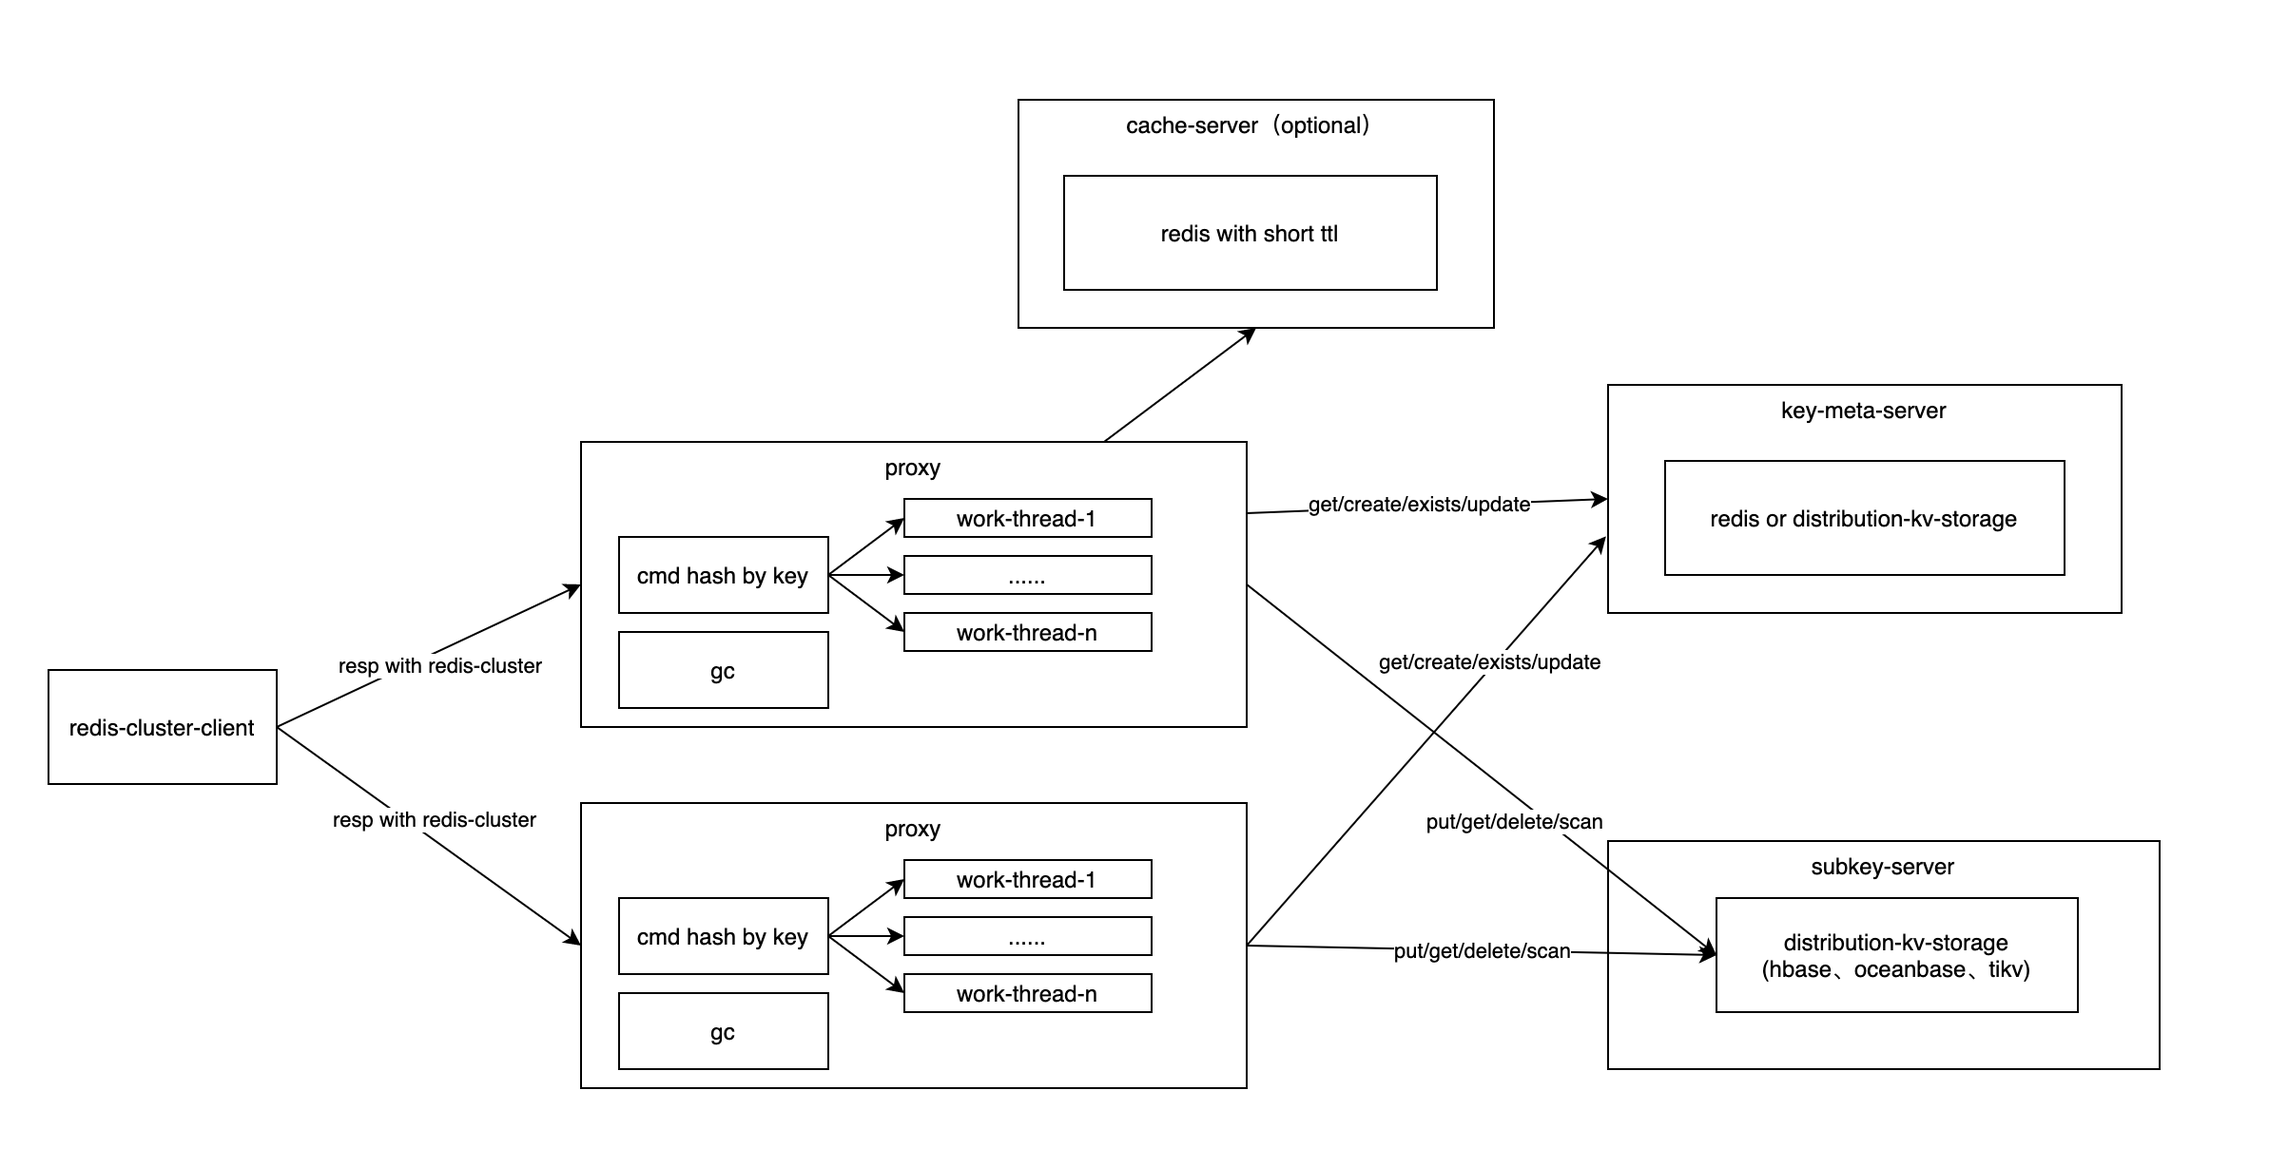
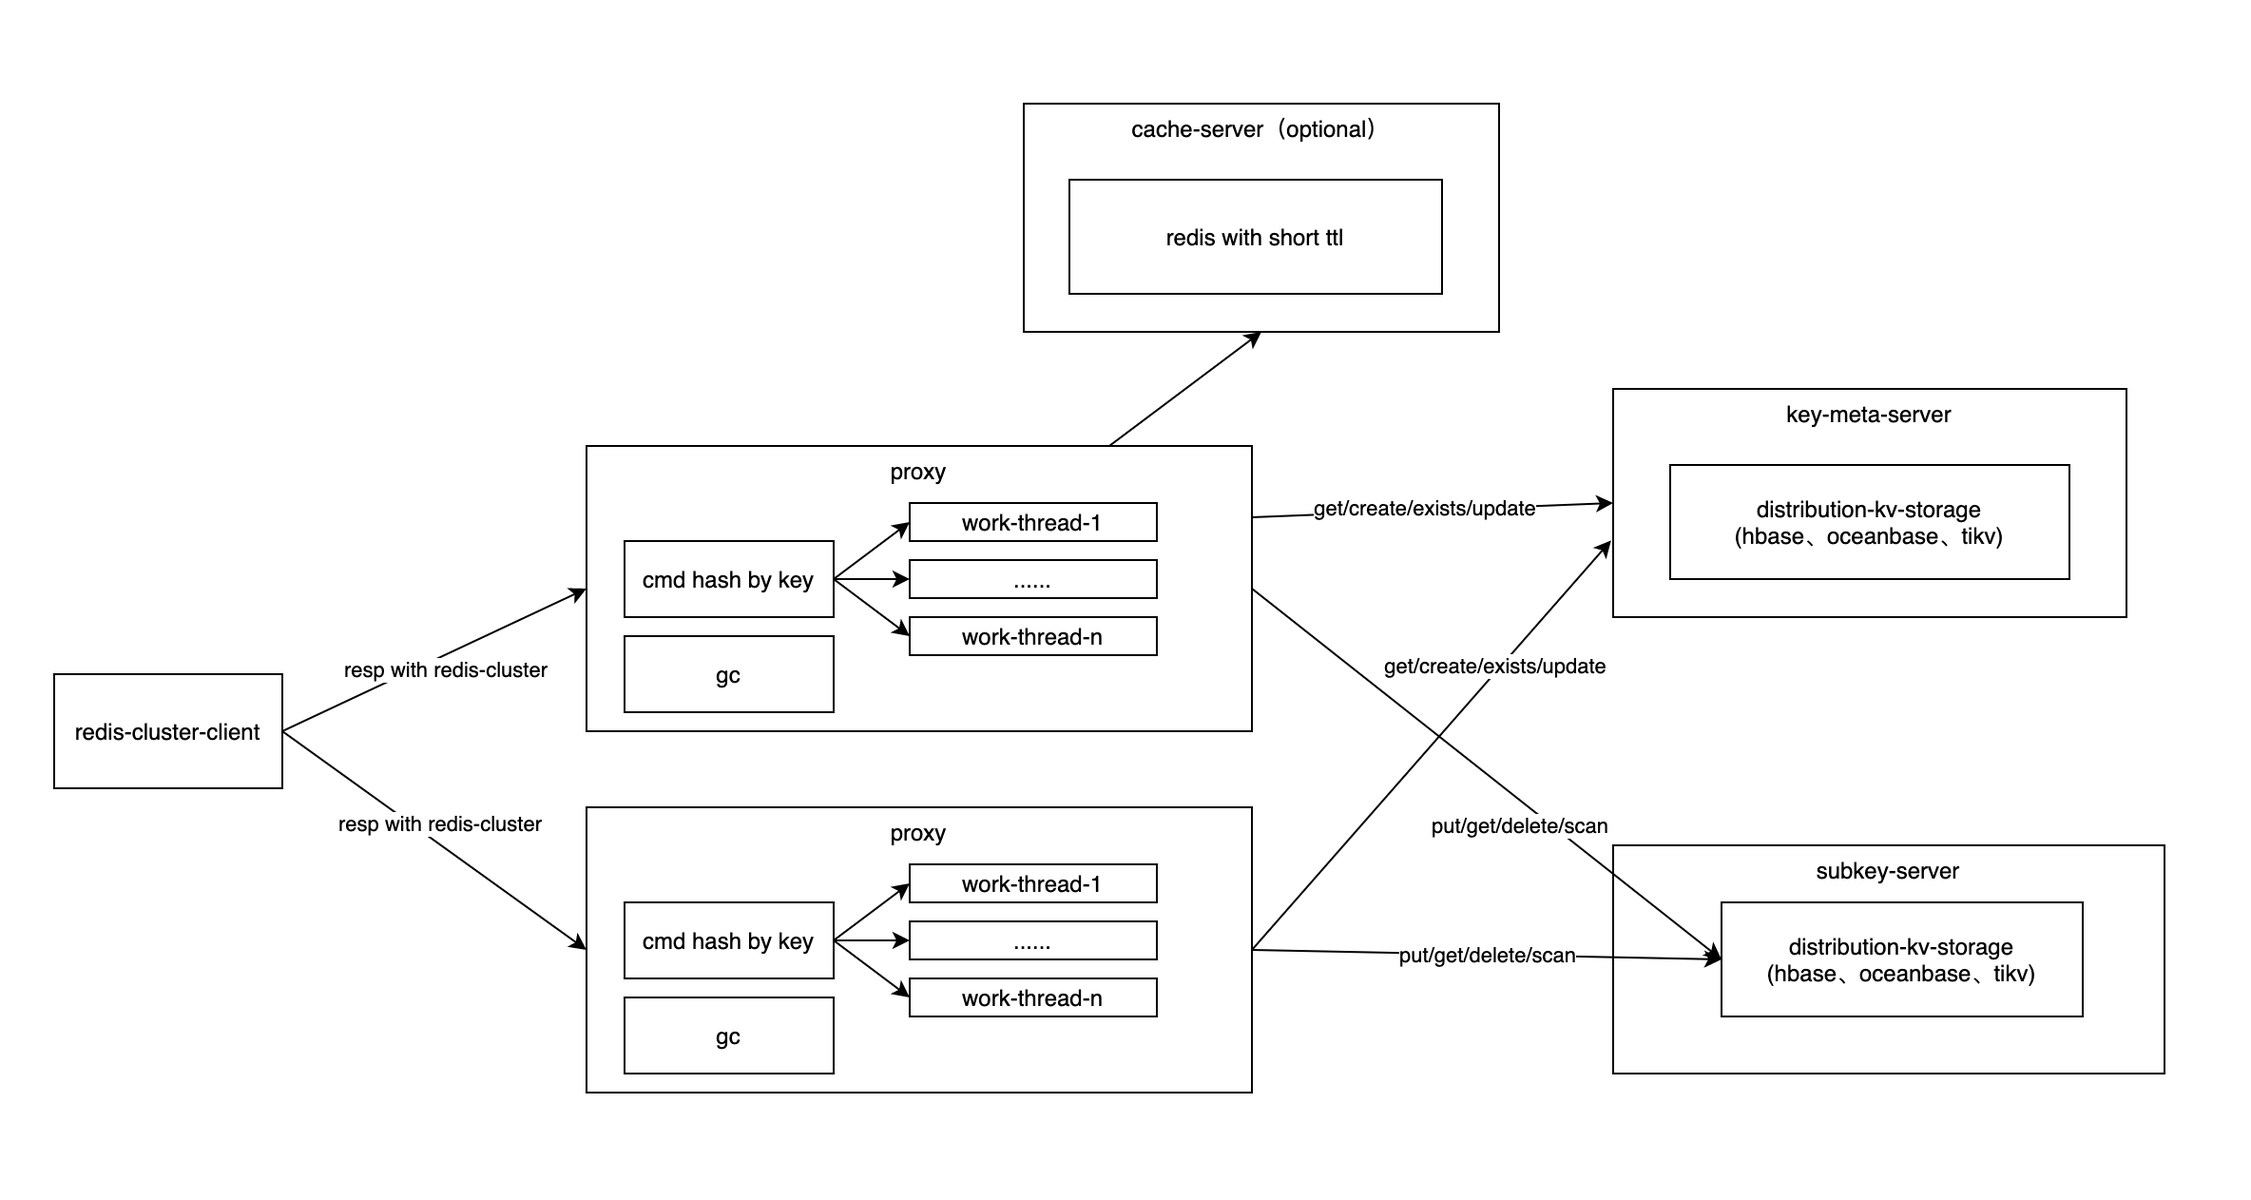
refactor key meta to kv/cache mode (#243)

diff --git a/camellia-redis-proxy/camellia-redis-proxy-extensions/camellia-redis-proxy-kv/camellia-redis-proxy-kv-core/src/main/java/com/netease/nim/camellia/redis/proxy/kv/core/meta/DefaultKeyMetaServer.java b/camellia-redis-proxy/camellia-redis-proxy-extensions/camellia-redis-proxy-kv/camellia-redis-proxy-kv-core/src/main/java/com/netease/nim/camellia/redis/proxy/kv/core/meta/DefaultKeyMetaServer.java
@@ -4,6 +4,8 @@ import com.netease.nim.camellia.redis.proxy.kv.core.command.RedisTemplate;
 import com.netease.nim.camellia.redis.proxy.kv.core.domain.CacheConfig;
 import com.netease.nim.camellia.redis.proxy.kv.core.domain.KeyStruct;
 import com.netease.nim.camellia.redis.proxy.kv.core.exception.KvException;
+import com.netease.nim.camellia.redis.proxy.kv.core.kv.KVClient;
+import com.netease.nim.camellia.redis.proxy.kv.core.kv.KeyValue;
 import com.netease.nim.camellia.redis.proxy.reply.*;
 
 import java.util.concurrent.CompletableFuture;
@@ -13,11 +15,13 @@ import java.util.concurrent.CompletableFuture;
  */
 public class DefaultKeyMetaServer implements KeyMetaServer {
 
+    private final KVClient kvClient;
     private final RedisTemplate keyMetaRedisTemplate;
     private final KeyStruct keyStruct;
     private final CacheConfig cacheConfig;
 
-    public DefaultKeyMetaServer(RedisTemplate keyMetaRedisTemplate, KeyStruct keyStruct, CacheConfig cacheConfig) {
+    public DefaultKeyMetaServer(KVClient kvClient, RedisTemplate keyMetaRedisTemplate, KeyStruct keyStruct, CacheConfig cacheConfig) {
+        this.kvClient = kvClient;
         this.keyMetaRedisTemplate = keyMetaRedisTemplate;
         this.keyStruct = keyStruct;
         this.cacheConfig = cacheConfig;
@@ -25,31 +29,70 @@ public class DefaultKeyMetaServer implements KeyMetaServer {
 
     @Override
     public KeyMeta getKeyMeta(byte[] key) {
-        byte[] redisKey = keyStruct.metaKey(key);
-        Reply reply = sync(keyMetaRedisTemplate.sendGet(redisKey));
+        byte[] metaKey = keyStruct.metaKey(key);
+
+        if (!cacheConfig.isMetaCacheEnable()) {
+            KeyValue keyValue = kvClient.get(metaKey);
+            if (keyValue == null || keyValue.getValue() == null) {
+                return null;
+            }
+            return KeyMeta.fromBytes(keyValue.getKey());
+        }
+
+        Reply reply = sync(keyMetaRedisTemplate.sendGet(metaKey));
         if (reply instanceof ErrorReply) {
             throw new KvException(((ErrorReply) reply).getError());
         }
         if (reply instanceof BulkReply) {
             byte[] raw = ((BulkReply) reply).getRaw();
+            KeyMeta keyMeta = null;
             if (raw != null) {
-                return KeyMeta.fromBytes(raw);
+                keyMeta = KeyMeta.fromBytes(raw);
             }
-            return null;
+            if (keyMeta != null) {
+                return keyMeta;
+            }
+            KeyValue keyValue = kvClient.get(metaKey);
+            if (keyValue == null || keyValue.getValue() == null) {
+                return null;
+            }
+            keyMeta = KeyMeta.fromBytes(keyValue.getKey());
+            if (keyMeta.isExpire()) {
+                kvClient.delete(metaKey);
+                return null;
+            }
+
+            long redisExpireMillis = redisExpireMillis(keyMeta);
+
+            if (redisExpireMillis > 0) {
+                Reply reply1 = sync(keyMetaRedisTemplate.sendPSetEx(metaKey, redisExpireMillis, keyMeta.toBytes()));
+                if (reply1 instanceof ErrorReply) {
+                    throw new KvException(((ErrorReply) reply1).getError());
+                }
+            }
+            return keyMeta;
         }
         throw new KvException("ERR key meta error");
     }
 
+    private long redisExpireMillis(KeyMeta keyMeta) {
+        long redisExpireMillis;
+        if (keyMeta.getExpireTime() < 0) {
+            redisExpireMillis = cacheConfig.metaCacheMillis();
+        } else {
+            redisExpireMillis = keyMeta.getExpireTime() - System.currentTimeMillis();
+            redisExpireMillis = Math.min(redisExpireMillis, cacheConfig.metaCacheMillis());
+        }
+        return redisExpireMillis;
+    }
+
     @Override
     public void createOrUpdateKeyMeta(byte[] key, KeyMeta keyMeta) {
-        byte[] redisKey = keyStruct.metaKey(key);
+        byte[] metaKey = keyStruct.metaKey(key);
         Reply reply;
-        if (keyMeta.getExpireTime() > 0) {
-            long expireMillis = keyMeta.getExpireTime() - System.currentTimeMillis();
-            reply = sync(keyMetaRedisTemplate.sendPSetEx(redisKey, expireMillis, keyMeta.toBytes()));
-        } else {
-            reply = sync(keyMetaRedisTemplate.sendSet(redisKey, keyMeta.toBytes()));
-        }
+        long redisExpireMillis = redisExpireMillis(keyMeta);
+        reply = sync(keyMetaRedisTemplate.sendPSetEx(metaKey, redisExpireMillis, keyMeta.toBytes()));
+
         if (reply instanceof StatusReply) {
             if (((StatusReply) reply).getStatus().equalsIgnoreCase(StatusReply.OK.getStatus())) {
                 return;
@@ -58,32 +101,56 @@ public class DefaultKeyMetaServer implements KeyMetaServer {
         if (reply instanceof ErrorReply) {
             throw new KvException(((ErrorReply) reply).getError());
         }
+        kvClient.put(metaKey, keyMeta.toBytes());
     }
 
     @Override
     public int deleteKeyMeta(byte[] key) {
-        byte[] redisKey = keyStruct.metaKey(key);
-        Reply reply = sync(keyMetaRedisTemplate.sendDel(redisKey));
-        if (reply instanceof IntegerReply) {
-            return ((IntegerReply) reply).getInteger().intValue();
+        byte[] metaKey = keyStruct.metaKey(key);
+        int result = 0;
+        if (cacheConfig.isMetaCacheEnable()) {
+            Reply reply = sync(keyMetaRedisTemplate.sendDel(metaKey));
+            if (reply instanceof ErrorReply) {
+                throw new KvException(((ErrorReply) reply).getError());
+            }
+            if (reply instanceof IntegerReply) {
+                result = ((IntegerReply) reply).getInteger().intValue();
+            }
         }
-        if (reply instanceof ErrorReply) {
-            throw new KvException(((ErrorReply) reply).getError());
+        if (result > 0) {
+            kvClient.delete(metaKey);
+            return result;
         }
-        throw new KvException("ERR internal error");
+        KeyValue keyValue = kvClient.get(metaKey);
+        if (keyValue == null || keyValue.getValue() == null) {
+            return 0;
+        }
+        KeyMeta keyMeta = KeyMeta.fromBytes(keyValue.getValue());
+        kvClient.delete(metaKey);
+        return (keyMeta == null || keyMeta.isExpire()) ? 0 : 1;
     }
 
     @Override
     public boolean existsKeyMeta(byte[] key) {
-        byte[] redisKey = keyStruct.metaKey(key);
-        Reply reply = sync(keyMetaRedisTemplate.sendExists(redisKey));
-        if (reply instanceof IntegerReply) {
-            return ((IntegerReply) reply).getInteger().intValue() > 0;
+        byte[] metaKey = keyStruct.metaKey(key);
+        if (cacheConfig.isMetaCacheEnable()) {
+            Reply reply = sync(keyMetaRedisTemplate.sendExists(metaKey));
+            if (reply instanceof ErrorReply) {
+                throw new KvException(((ErrorReply) reply).getError());
+            }
+            if (reply instanceof IntegerReply) {
+                return ((IntegerReply) reply).getInteger().intValue() > 0;
+            }
         }
-        if (reply instanceof ErrorReply) {
-            throw new KvException(((ErrorReply) reply).getError());
+        KeyValue keyValue = kvClient.get(metaKey);
+        if (keyValue == null || keyValue.getValue() == null) {
+            return false;
         }
-        throw new KvException("ERR internal error");
+        KeyMeta keyMeta = KeyMeta.fromBytes(keyValue.getValue());
+        if (keyMeta == null) {
+            return false;
+        }
+        return !keyMeta.isExpire();
     }
 
     private Reply sync(CompletableFuture<Reply> future) {

diff --git a/camellia-redis-proxy/camellia-redis-proxy-extensions/camellia-redis-proxy-kv/camellia-redis-proxy-kv-core/src/main/java/com/netease/nim/camellia/redis/proxy/kv/core/UpstreamKVClientTemplateFactory.java b/camellia-redis-proxy/camellia-redis-proxy-extensions/camellia-redis-proxy-kv/camellia-redis-proxy-kv-core/src/main/java/com/netease/nim/camellia/redis/proxy/kv/core/UpstreamKVClientTemplateFactory.java
@@ -103,18 +103,19 @@ public class UpstreamKVClientTemplateFactory implements IUpstreamClientTemplateF
 
     private UpstreamKVClientTemplate initUpstreamKVClientTemplate(String namespace, KVClient kvClient, CamelliaHashedExecutor executor) {
         KeyStruct keyStruct = new KeyStruct(namespace.getBytes(StandardCharsets.UTF_8));
-        boolean cacheEnable = ProxyDynamicConf.getBoolean("kv.cache.enable", true);
-        CacheConfig cacheConfig = new CacheConfig(namespace, cacheEnable);
+        boolean valueCacheEnable = ProxyDynamicConf.getBoolean("kv.value.cache.enable", true);
+        boolean metaCacheEnable = ProxyDynamicConf.getBoolean("kv.meta.cache.enable", true);
+        CacheConfig cacheConfig = new CacheConfig(namespace, metaCacheEnable, valueCacheEnable);
         KvConfig kvConfig = new KvConfig(namespace);
 
-        String metaRedisUrl = ProxyDynamicConf.getString("kv.meta.redis.url", null);
-        RedisTemplate metaRedisTemplate = new RedisTemplate(new UpstreamRedisClientTemplate(ReadableResourceTableUtil.parseTable(metaRedisUrl)));
-        KeyMetaServer keyMetaServer = new DefaultKeyMetaServer(metaRedisTemplate, keyStruct, cacheConfig);
+        String metaCacheRedisUrl = ProxyDynamicConf.getString("kv.meta.cache.redis.url", null);
+        RedisTemplate metaCacheRedisTemplate = new RedisTemplate(new UpstreamRedisClientTemplate(ReadableResourceTableUtil.parseTable(metaCacheRedisUrl)));
+        KeyMetaServer keyMetaServer = new DefaultKeyMetaServer(kvClient, metaCacheRedisTemplate, keyStruct, cacheConfig);
 
-        String cacheRedisUrl = ProxyDynamicConf.getString("kv.cache.redis.url", null);
-        RedisTemplate cacheRedisTemplate = new RedisTemplate(new UpstreamRedisClientTemplate(ReadableResourceTableUtil.parseTable(cacheRedisUrl)));
+        String cacheRedisUrl = ProxyDynamicConf.getString("kv.value.cache.redis.url", null);
+        RedisTemplate valueCacheRedisTemplate = new RedisTemplate(new UpstreamRedisClientTemplate(ReadableResourceTableUtil.parseTable(cacheRedisUrl)));
 
-        CommanderConfig commanderConfig = new CommanderConfig(kvClient, keyStruct, cacheConfig, kvConfig, keyMetaServer, cacheRedisTemplate);
+        CommanderConfig commanderConfig = new CommanderConfig(kvClient, keyStruct, cacheConfig, kvConfig, keyMetaServer, valueCacheRedisTemplate);
 
         return new UpstreamKVClientTemplate(executor, commanderConfig);
     }

diff --git a/camellia-redis-proxy/camellia-redis-proxy-extensions/camellia-redis-proxy-kv/camellia-redis-proxy-kv-core/src/main/java/com/netease/nim/camellia/redis/proxy/kv/core/domain/CacheConfig.java b/camellia-redis-proxy/camellia-redis-proxy-extensions/camellia-redis-proxy-kv/camellia-redis-proxy-kv-core/src/main/java/com/netease/nim/camellia/redis/proxy/kv/core/domain/CacheConfig.java
@@ -8,15 +8,29 @@ import com.netease.nim.camellia.redis.proxy.conf.ProxyDynamicConf;
 public class CacheConfig {
 
     private final String namespace;
-    private final boolean cacheEnable;
+    private final boolean valueCacheEnable;
+    private final boolean metaCacheEnable;
 
-    public CacheConfig(String namespace, boolean cacheEnable) {
+    public CacheConfig(String namespace, boolean metaCacheEnable, boolean valueCacheEnable) {
         this.namespace = namespace;
-        this.cacheEnable = cacheEnable;
+        this.metaCacheEnable = metaCacheEnable;
+        this.valueCacheEnable = valueCacheEnable;
     }
 
-    public boolean isCacheEnable() {
-        return cacheEnable;
+    public boolean isMetaCacheEnable() {
+        return metaCacheEnable;
+    }
+
+    public boolean isValueCacheEnable() {
+        return valueCacheEnable;
+    }
+
+    public long metaCacheMillis() {
+        long keyMetaTimeoutMillis = ProxyDynamicConf.getLong(namespace + ".kv.key.meta.cache.millis", -1L);
+        if (keyMetaTimeoutMillis > 0) {
+            return keyMetaTimeoutMillis;
+        }
+        return ProxyDynamicConf.getLong("kv.key.meta.cache.millis", 1000L * 60 * 10);
     }
 
     public long keyMetaTimeoutMillis() {

diff --git a/camellia-redis-proxy/camellia-redis-proxy-extensions/camellia-redis-proxy-kv/camellia-redis-proxy-kv-core/src/main/java/com/netease/nim/camellia/redis/proxy/kv/core/command/hash/HLenCommander.java b/camellia-redis-proxy/camellia-redis-proxy-extensions/camellia-redis-proxy-kv/camellia-redis-proxy-kv-core/src/main/java/com/netease/nim/camellia/redis/proxy/kv/core/command/hash/HLenCommander.java
@@ -49,7 +49,7 @@ public class HLenCommander extends Commander {
             int size = BytesUtils.toInt(keyMeta.getExtra());
             return IntegerReply.parse(size);
         } else if (keyMeta.getEncodeVersion() == EncodeVersion.version_1) {
-            if (!cacheConfig.isCacheEnable()) {
+            if (!cacheConfig.isValueCacheEnable()) {
                 long size = getSizeFromKv(keyMeta, key);
                 return IntegerReply.parse(size);
             }

diff --git a/camellia-redis-proxy/camellia-redis-proxy-extensions/camellia-redis-proxy-kv/camellia-redis-proxy-kv-core/src/main/java/com/netease/nim/camellia/redis/proxy/kv/core/command/hash/HDelCommander.java b/camellia-redis-proxy/camellia-redis-proxy-extensions/camellia-redis-proxy-kv/camellia-redis-proxy-kv-core/src/main/java/com/netease/nim/camellia/redis/proxy/kv/core/command/hash/HDelCommander.java
@@ -58,7 +58,7 @@ public class HDelCommander extends Commander {
 
         int fieldSize = objects.length - 2;
 
-        if (!cacheConfig.isCacheEnable()) {
+        if (!cacheConfig.isValueCacheEnable()) {
             byte[][] storeKeys = new byte[fieldSize][];
             for (int i=2; i<objects.length; i++) {
                 storeKeys[i-2] = keyStruct.hashFieldStoreKey(keyMeta, key, objects[i]);

diff --git a/camellia-redis-proxy/camellia-redis-proxy-extensions/camellia-redis-proxy-kv/camellia-redis-proxy-kv-core/src/main/java/com/netease/nim/camellia/redis/proxy/kv/core/command/hash/HGetCommander.java b/camellia-redis-proxy/camellia-redis-proxy-extensions/camellia-redis-proxy-kv/camellia-redis-proxy-kv-core/src/main/java/com/netease/nim/camellia/redis/proxy/kv/core/command/hash/HGetCommander.java
@@ -69,7 +69,7 @@ public class HGetCommander extends Commander {
         }
 
         //disable cache
-        if (!cacheConfig.isCacheEnable()) {
+        if (!cacheConfig.isValueCacheEnable()) {
             byte[] storeKey = keyStruct.hashFieldStoreKey(keyMeta, key, field);
             KeyValue keyValue = kvClient.get(storeKey);
             if (keyValue == null || keyValue.getValue() == null) {

diff --git a/camellia-redis-proxy/camellia-redis-proxy-extensions/camellia-redis-proxy-kv/camellia-redis-proxy-kv-core/src/main/java/com/netease/nim/camellia/redis/proxy/kv/core/command/hash/HSetCommander.java b/camellia-redis-proxy/camellia-redis-proxy-extensions/camellia-redis-proxy-kv/camellia-redis-proxy-kv-core/src/main/java/com/netease/nim/camellia/redis/proxy/kv/core/command/hash/HSetCommander.java
@@ -93,7 +93,7 @@ public class HSetCommander extends Commander {
             }
         }
 
-        if (first || !cacheConfig.isCacheEnable()) {
+        if (first || !cacheConfig.isValueCacheEnable()) {
             List<KeyValue> list = new ArrayList<>();
             for (Map.Entry<BytesKey, byte[]> entry : fieldMap.entrySet()) {
                 byte[] field = entry.getKey().getKey();

diff --git a/camellia-redis-proxy/camellia-redis-proxy-extensions/camellia-redis-proxy-kv/camellia-redis-proxy-kv-core/src/main/java/com/netease/nim/camellia/redis/proxy/kv/core/command/hash/HGetAllCommander.java b/camellia-redis-proxy/camellia-redis-proxy-extensions/camellia-redis-proxy-kv/camellia-redis-proxy-kv-core/src/main/java/com/netease/nim/camellia/redis/proxy/kv/core/command/hash/HGetAllCommander.java
@@ -66,7 +66,7 @@ public class HGetAllCommander extends Commander {
         }
 
         //disable cache
-        if (!cacheConfig.isCacheEnable()) {
+        if (!cacheConfig.isValueCacheEnable()) {
             Map<BytesKey, byte[]> map = hgetallFromKv(keyMeta, key);
             if (map.isEmpty()) {
                 return MultiBulkReply.EMPTY;

diff --git a/camellia-redis-proxy/camellia-redis-proxy-extensions/camellia-redis-proxy-kv/camellia-redis-proxy-kv-core/src/main/java/com/netease/nim/camellia/redis/proxy/kv/core/meta/KeyMeta.java b/camellia-redis-proxy/camellia-redis-proxy-extensions/camellia-redis-proxy-kv/camellia-redis-proxy-kv-core/src/main/java/com/netease/nim/camellia/redis/proxy/kv/core/meta/KeyMeta.java
@@ -50,6 +50,10 @@ public class KeyMeta {
         this.raw = raw;
     }
 
+    public boolean isExpire() {
+        return System.currentTimeMillis() - expireTime < 0;
+    }
+
     public byte[] toBytes() {
         if (raw != null) {
             return raw;

diff --git a/docs/redis-proxy/kv/kv.md b/docs/redis-proxy/kv/kv.md
@@ -11,9 +11,9 @@
 * proxy内部多work-thread运行，每个命令根据key哈希到同一个work-thread运行
 * proxy本身弱状态
 * proxy依赖的存储包括三种类型：key-meta-server、cache-server、kv-storage
-* key-meta-server，用于维护key的meta信息，包括key的类型、版本、ttl等，可以基于redis实现，也可以基于hbase/tikv/obkv实现
-* cache-server，可选组件，基于redis，特点是key的ttl很短，并且允许换出
+* key-meta-server，用于维护key的meta信息，包括key的类型、版本、ttl等，可以基于hbase/tikv/obkv实现
 * kv-storage，持久化层，抽象简单的put/get/delete/scan等接口，可以基于hbase/tikv/obkv实现
+* cache-server，可选组件，基于redis，特点是key的ttl很短，并且允许换出，支持对key-meta和kv-storage分别增加cache层
 
 ## key-meta结构
 
